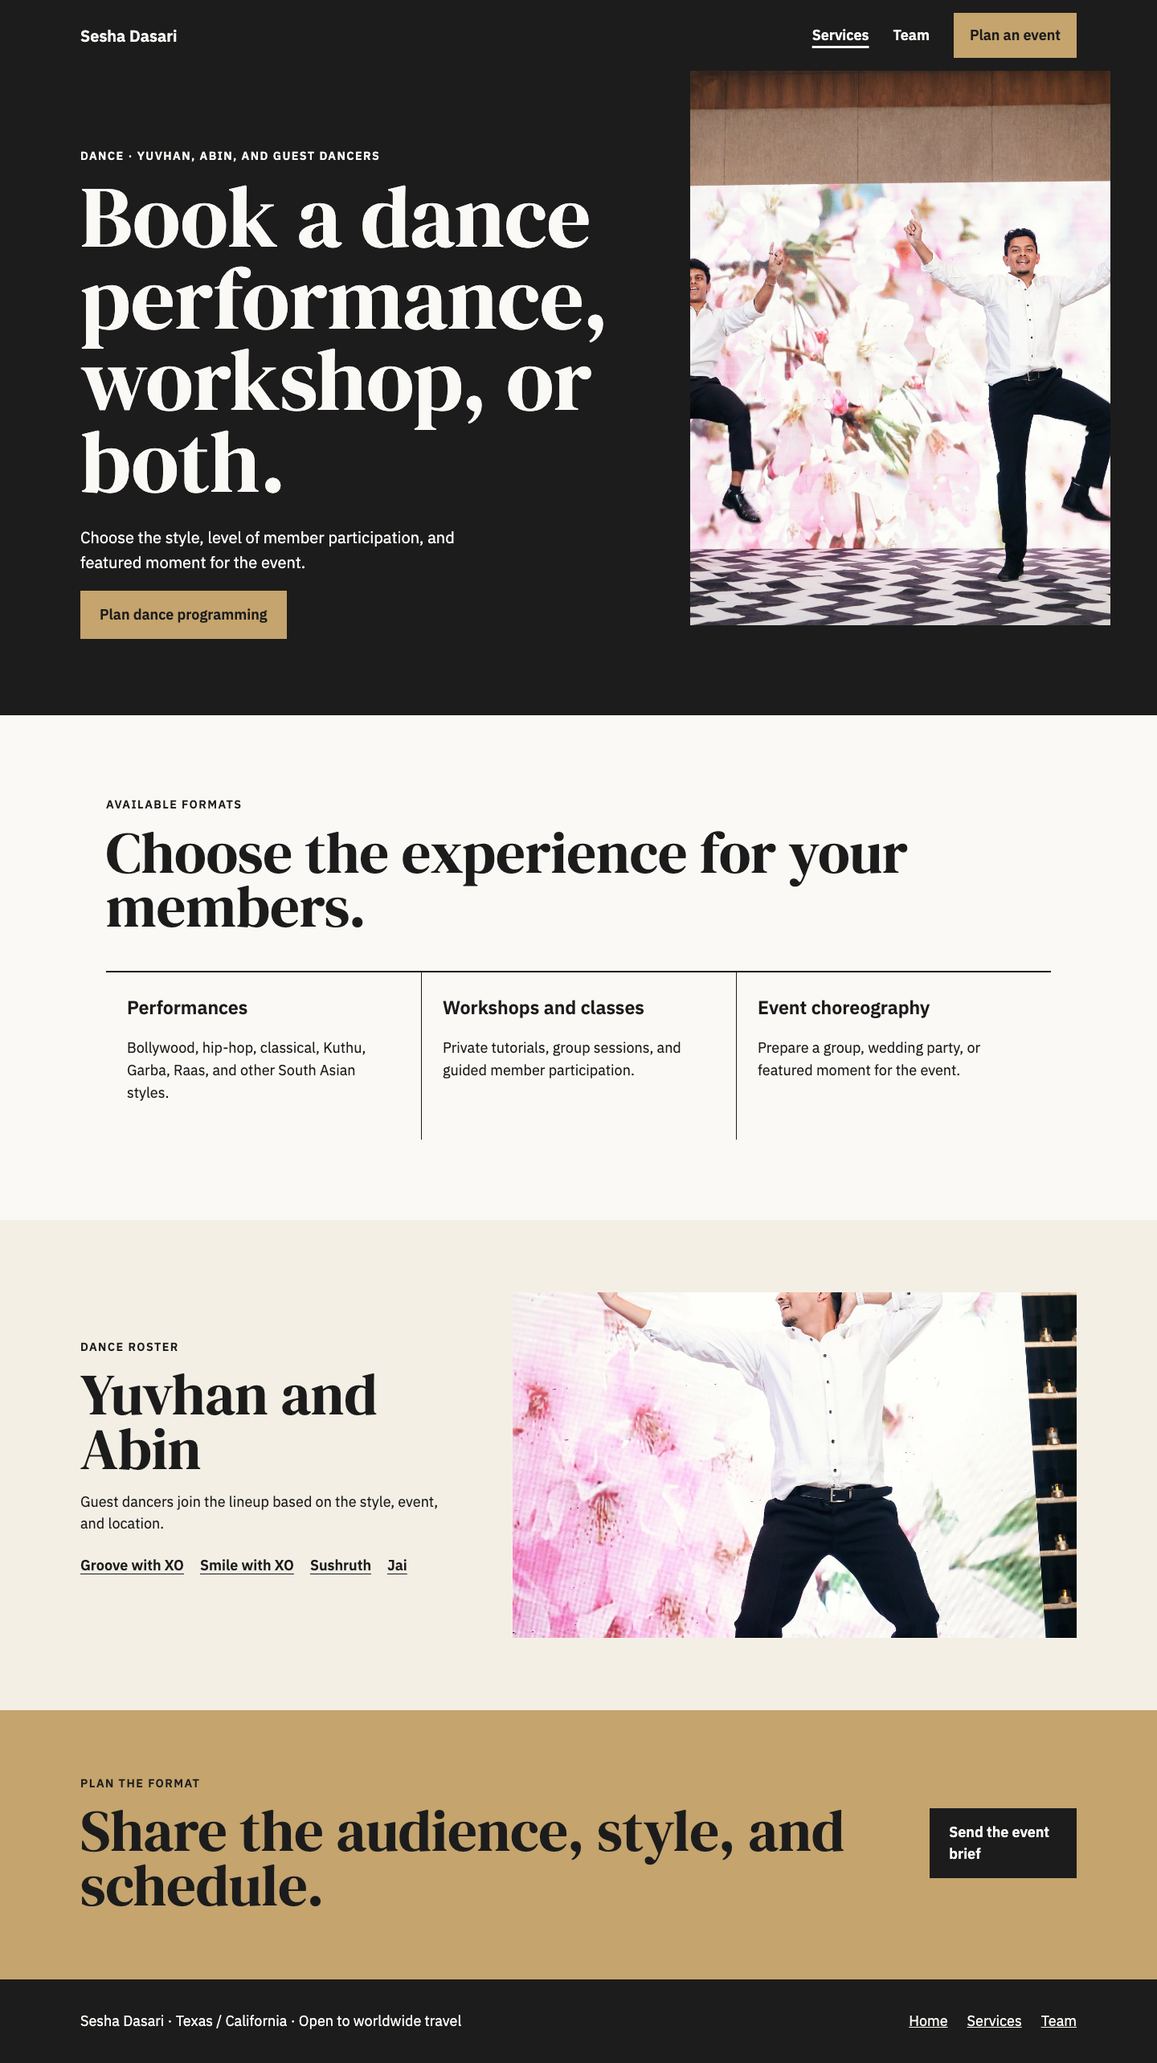
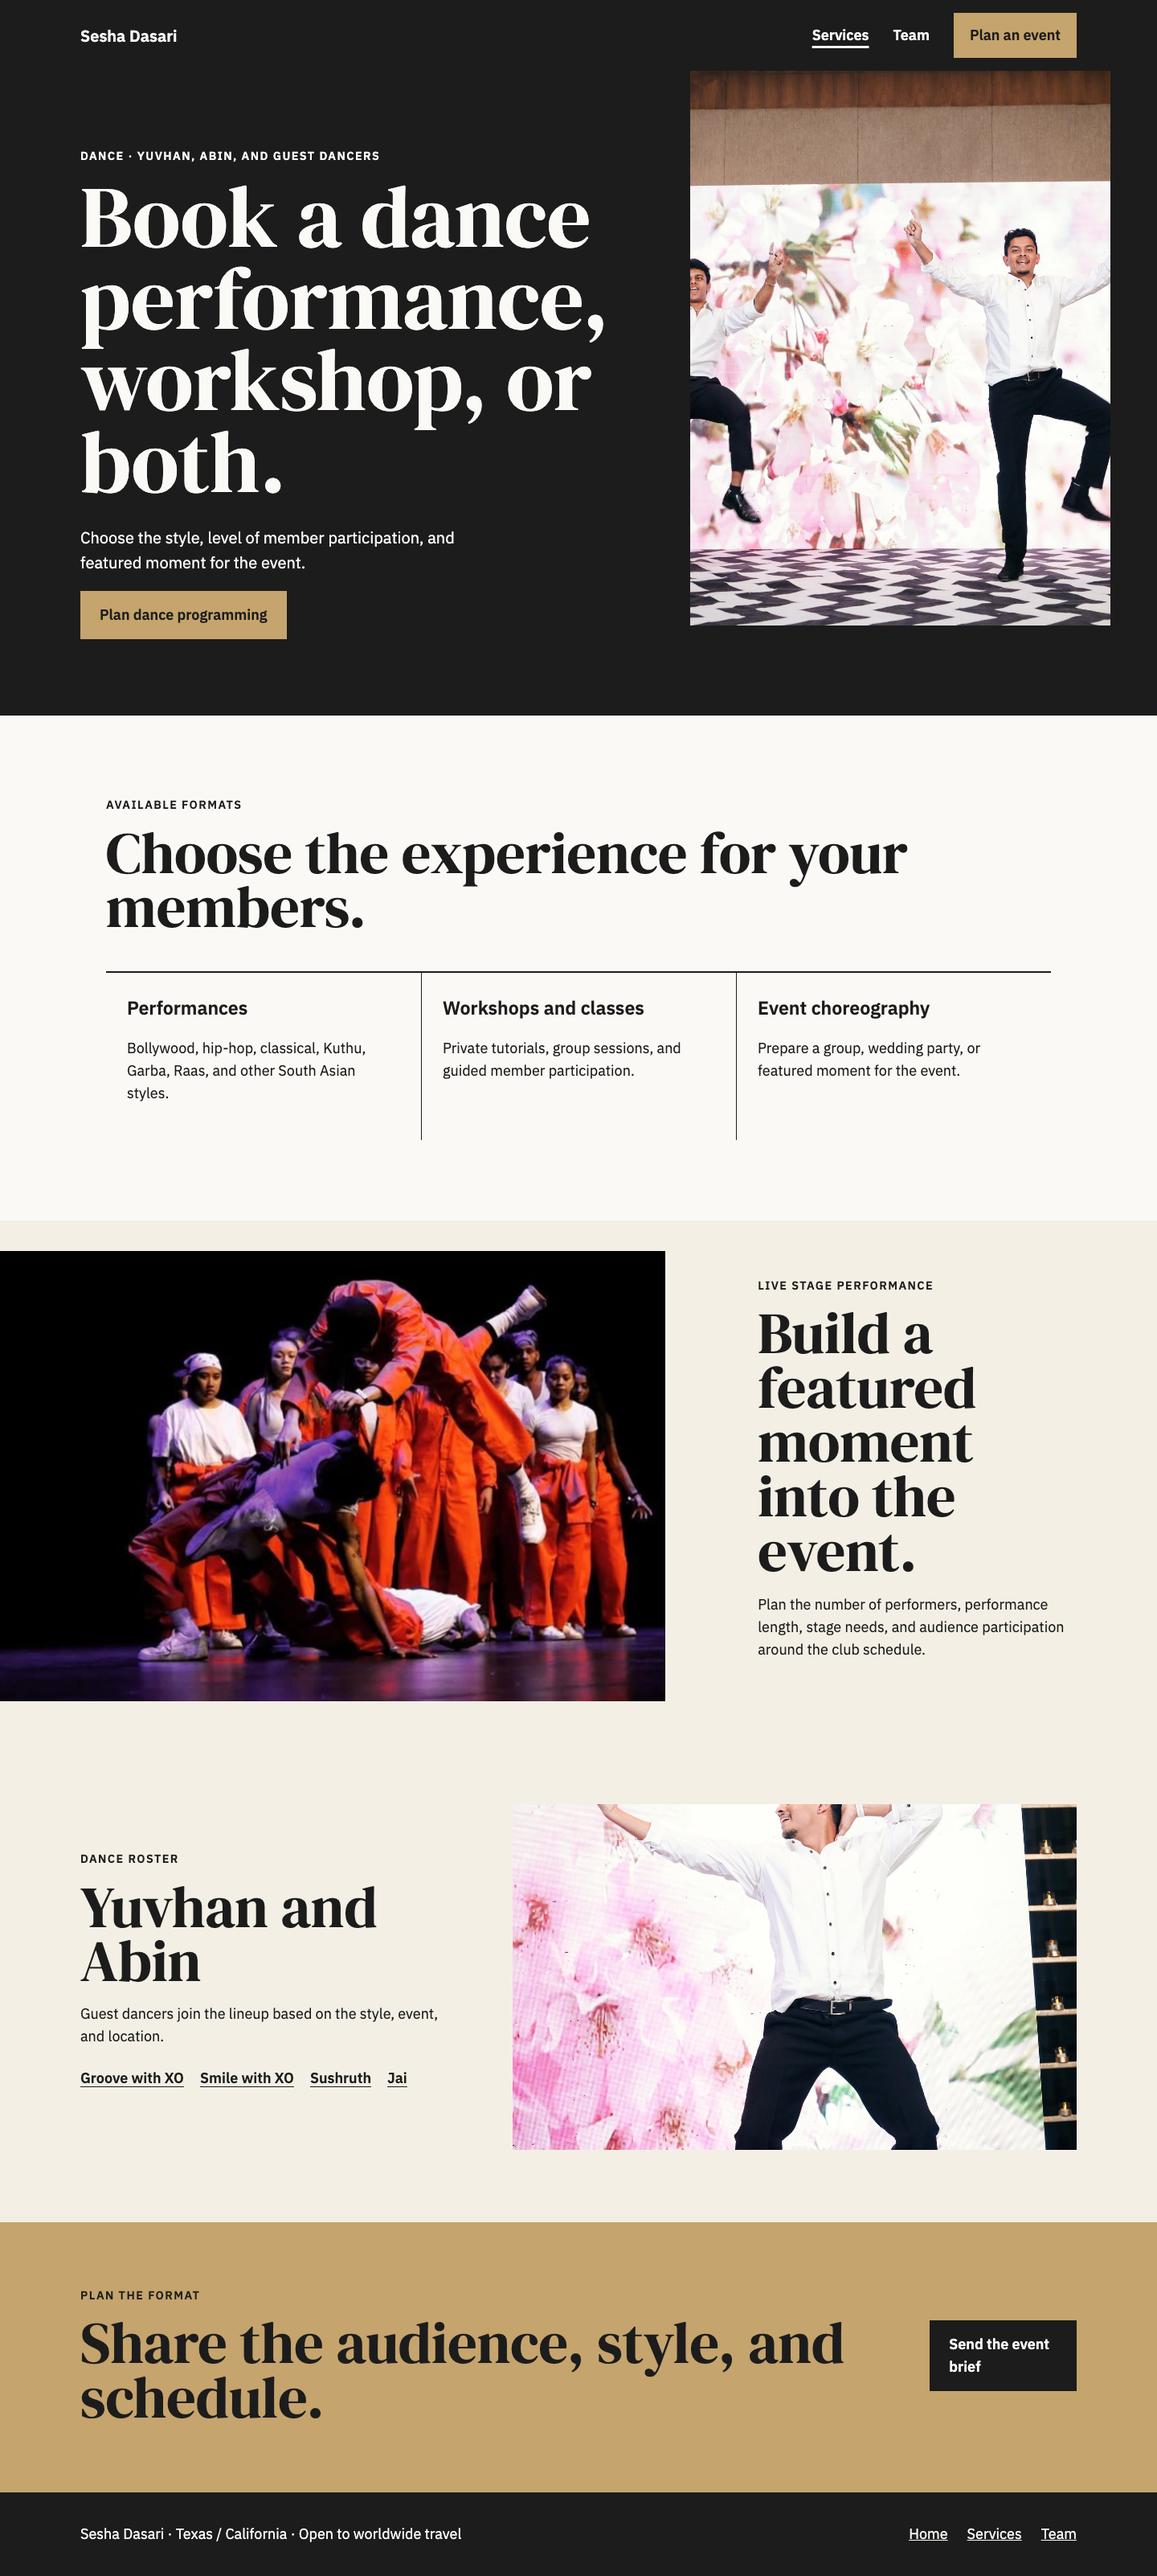
feat: add ensemble photo to dance page
Add the supplied stage-performance image as dance proof, use factual alt text, document the asset, and refresh the visual QA reference.

diff --git a/service-dance.html b/service-dance.html
@@ -5,6 +5,7 @@
 <main id="main">
   <section class="service-detail-hero"><div><p class="eyebrow">Dance · Yuvhan, Abin, and guest dancers</p><h1>Book a dance performance, workshop, or both.</h1><p class="lead">Choose the style, level of member participation, and featured moment for the event.</p><a class="primary-button" href="c-contact.html?service=dance">Plan dance programming</a></div><img src="assets/dance-team-performance.jpg" alt="Two dancers performing together on an event stage" width="2048" height="1365"></section>
   <section class="detail-list" aria-labelledby="dance-includes"><p class="eyebrow">Available formats</p><h2 id="dance-includes">Choose the experience for your members.</h2><div><article><h3>Performances</h3><p>Bollywood, hip-hop, classical, Kuthu, Garba, Raas, and other South Asian styles.</p></article><article><h3>Workshops and classes</h3><p>Private tutorials, group sessions, and guided member participation.</p></article><article><h3>Event choreography</h3><p>Prepare a group, wedding party, or featured moment for the event.</p></article></div></section>
+  <section class="photo-proof" aria-labelledby="dance-stage-title"><img src="assets/dance-ensemble-lift.jpg" alt="Dance ensemble performing a choreographed lift on stage" width="1280" height="634" loading="lazy"><div><p class="eyebrow">Live stage performance</p><h2 id="dance-stage-title">Build a featured moment into the event.</h2><p>Plan the number of performers, performance length, stage needs, and audience participation around the club schedule.</p></div></section>
   <section class="media-preview media-preview-photo"><div><p class="eyebrow">Dance roster</p><h2>Yuvhan and Abin</h2><p>Guest dancers join the lineup based on the style, event, and location.</p><p class="roster-links"><a href="https://www.instagram.com/groovewithxo" target="_blank" rel="noreferrer" aria-label="Groove with XO on Instagram, opens in a new tab">Groove with XO</a><a href="https://www.instagram.com/smilewithxo" target="_blank" rel="noreferrer" aria-label="Smile with XO on Instagram, opens in a new tab">Smile with XO</a><a href="https://www.instagram.com/sushruth.manchikatla" target="_blank" rel="noreferrer" aria-label="Sushruth Manchikatla on Instagram, opens in a new tab">Sushruth</a><a href="https://www.instagram.com/jai.ramgopal" target="_blank" rel="noreferrer" aria-label="Jai Ramgopal on Instagram, opens in a new tab">Jai</a></p></div><img src="assets/dance-solo-performance.jpg" alt="Dancer performing on an event stage" width="1365" height="2048"></section>
   <section class="inner-cta"><div><p class="eyebrow">Plan the format</p><h2>Share the audience, style, and schedule.</h2></div><a class="primary-button" href="c-contact.html?service=dance">Send the event brief</a></section>
 </main><footer><p>Sesha Dasari · Texas / California · Open to worldwide travel</p><nav aria-label="Footer navigation"><a href="index.html">Home</a><a href="c-services.html">Services</a><a href="c-team.html">Team</a></nav></footer></body></html>

diff --git a/VERSION_HISTORY.md b/VERSION_HISTORY.md
@@ -2,6 +2,17 @@
 
 This repository starts with honest source checkpoints. The labels below do not claim earlier Git history that never existed.
 
+## v0.3.3-dance-ensemble-photo
+
+Dance proof update.
+
+• Adds the supplied ensemble performance photo to the production asset set.
+• Places it on the Dance page as live-stage proof.
+• Uses factual alt text without identifying unverified performers.
+• Adds event-planning copy for performer count, performance length, stage needs, and audience participation.
+
+Tested surfaces: image loading, desktop and mobile Dance pages, responsive overflow, production packaging, and live deployment.
+
 ## v0.3.2-ivory-gold-palette
 
 Selected public-site palette release.

diff --git a/HANDOFF.md b/HANDOFF.md
@@ -5,7 +5,7 @@ This file is the operating guide for the Sesha Dasari event site.
 ## Current state
 
 • Source of truth: the `main` branch in the private GitHub repository.
-• Current release tag: `v0.3.2-ivory-gold-palette`.
+• Current release tag: `v0.3.3-dance-ensemble-photo`.
 • Production site: https://sesha-country-club-site.netlify.app/
 • Netlify project: https://app.netlify.com/projects/sesha-country-club-site
 • Netlify Forms: https://app.netlify.com/projects/sesha-country-club-site/forms

diff --git a/README.md b/README.md
@@ -90,6 +90,7 @@ The live site uses work-focused assets from the Sesha, Abin, and Sidd group chat
 • Sesha performing comedy.
 • Rick performing stand-up and his portrait.
 • A two-person dance performance and a solo dance performance.
+• A wide ensemble dance performance with a choreographed lift.
 • Ashwin performing a DJ set.
 • Abin holding a professional camera.
 
